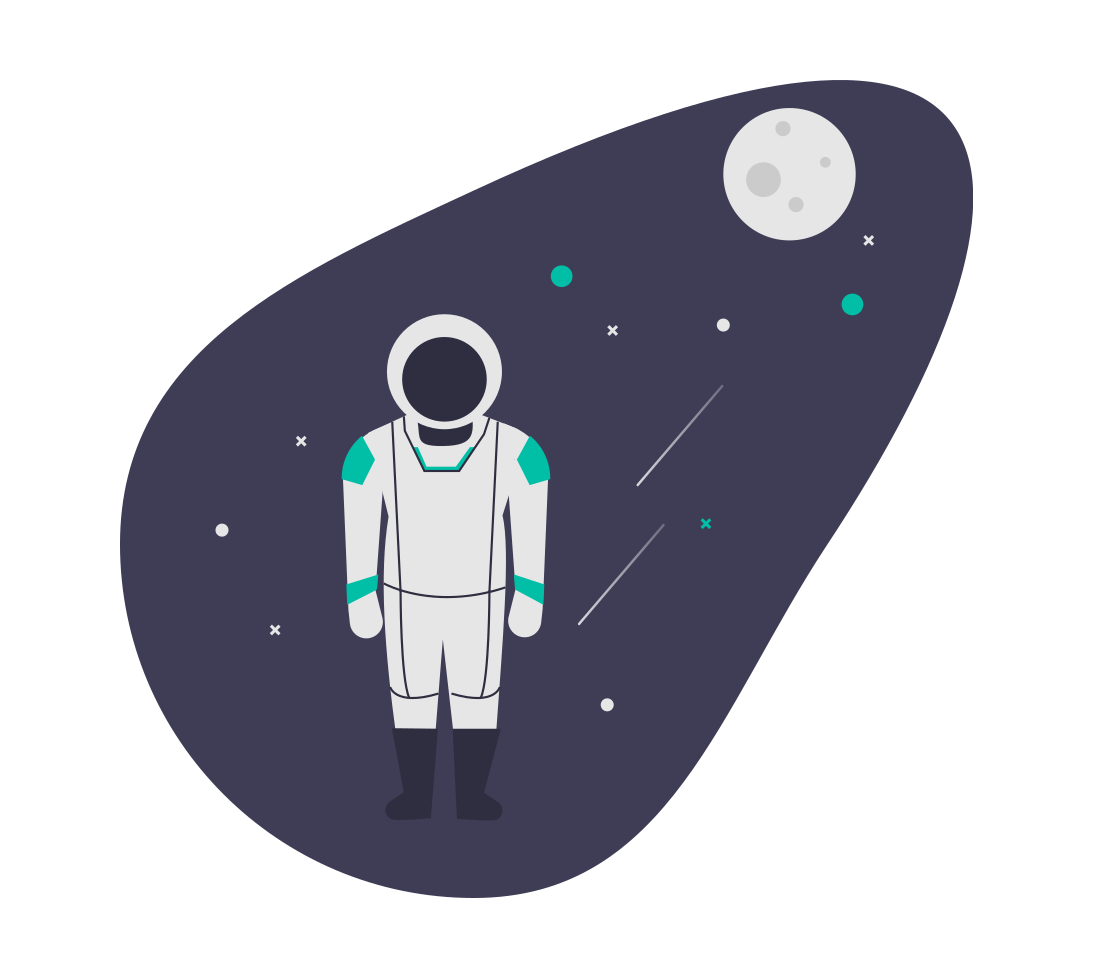
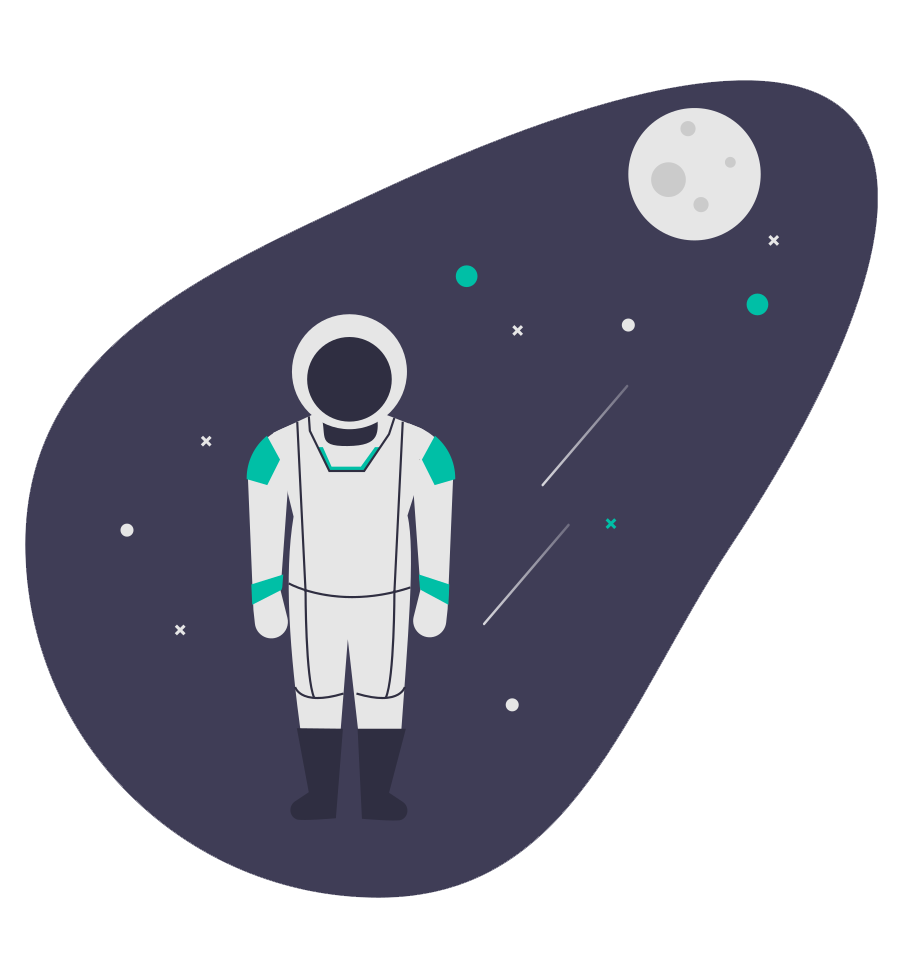
updated images

diff --git a/README.md b/README.md
@@ -1,4 +1,4 @@
-<img align="right" src="https://github.com/labtocat/labtocat/blob/master/sachin_illustration.png" alt="Illustration of me everyday" width=350px height=465px/>
+<img align="right" src="https://github.com/labtocat/labtocat/blob/master/launch_day.png" alt="Illustration of me everyday" width=430px height=465px/>
 
 # Hello there 👋🏽
 
